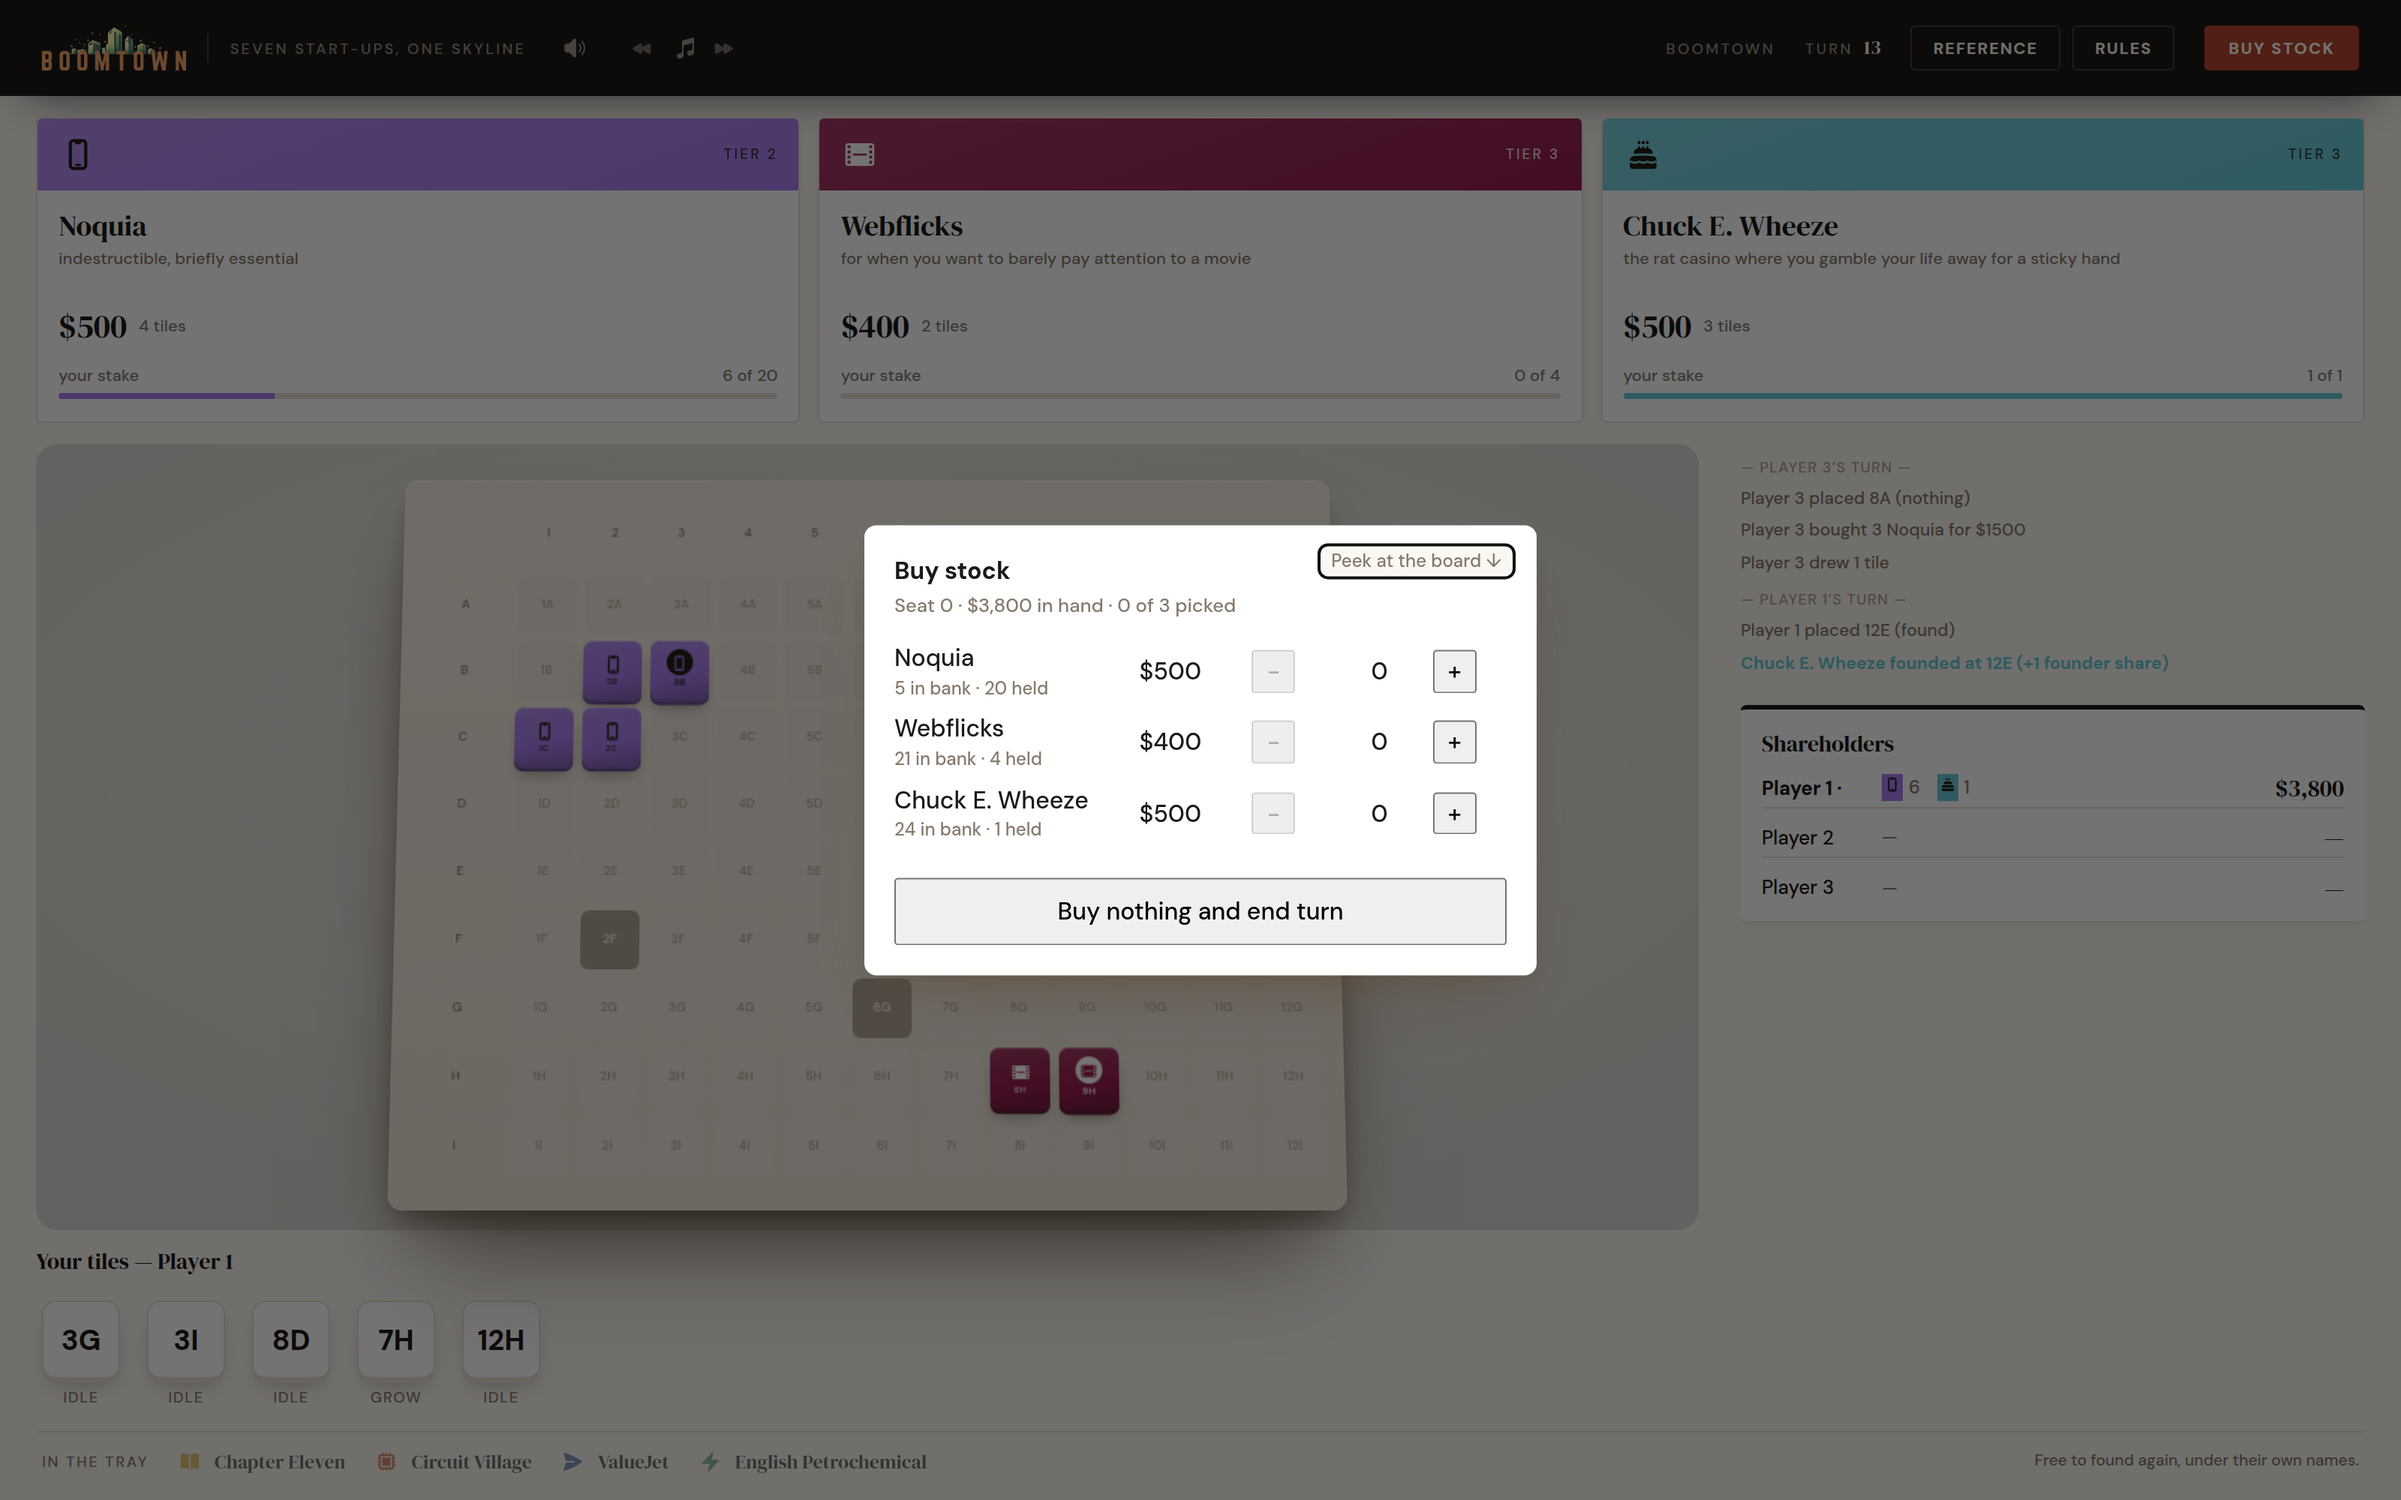
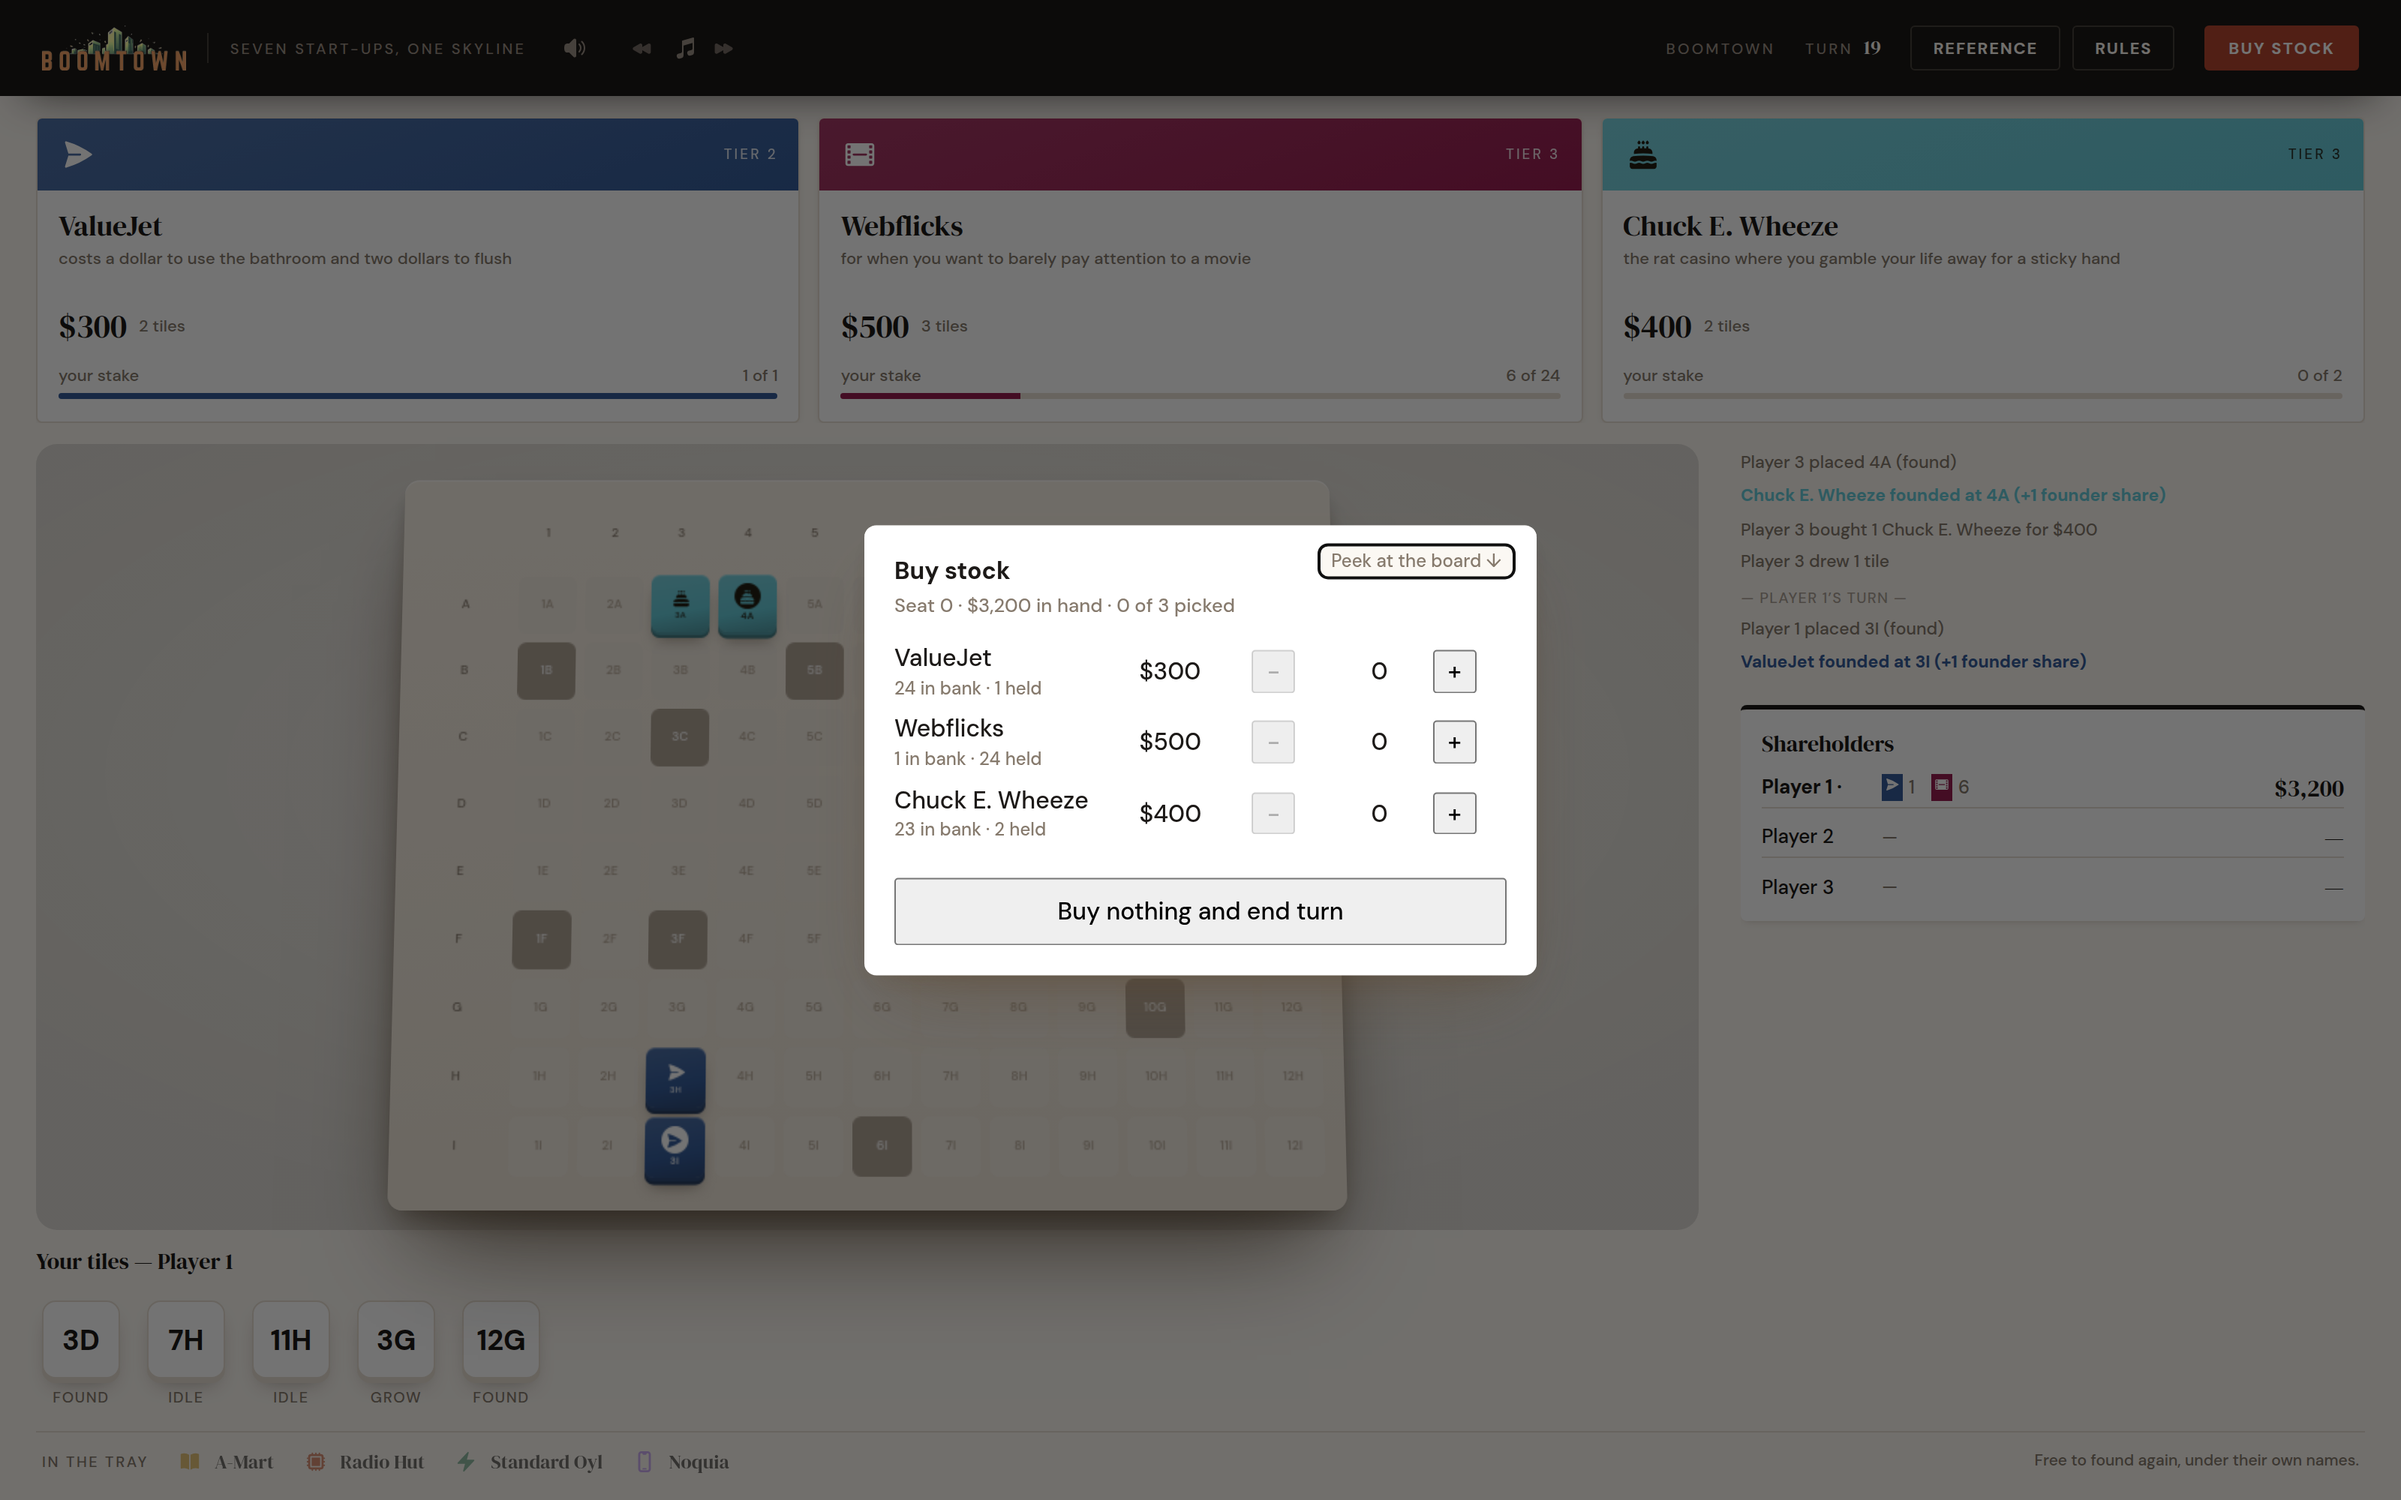
Retake the screenshots on the corrected naming
Every frame came from the code that named a twice-merged corporation after
the company it stopped being, so the set had to be shot again rather than
patched — the wrong name was on the story panel in half of them.

The new run has the fix on show: "Fried Electronics + Standardjet merge at
3A", "ValueJet + Discovery Zonked merge at 11I", and a final board trading as
Toyswedeobuckair after three mergers.

One frame is new. This run's bots placed a tile that joined two corporations
of exactly equal size, which hands the mergemaker a choice the earlier set
never happened to show, so the tie-break prompt is now the tenth shot and the
rest shift up one.

Two notes added to the README for whoever retakes these next: a corporation's
flavour line is a vertical marquee and is usually caught mid-scroll, and the
set pieces — a motion, a tie, a multi-way merger — only arrive when the bots
produce them, so the capture gates on the state it wants and re-runs.

Claude-Session: https://claude.ai/code/session_01M1dPaAZY1SXB1P2tAECK8d

diff --git a/docs/screenshots/README.md b/docs/screenshots/README.md
@@ -1,8 +1,8 @@
 # Screenshots
 
-Sixteen frames from one real game, in the order a table meets them — for press,
-the README, a store page, anywhere the game needs to be shown rather than
-described.
+Seventeen frames from one real game, in the order a table meets them — for
+press, the README, a store page, anywhere the game needs to be shown rather
+than described.
 
 | File | What it shows |
 |---|---|
@@ -14,23 +14,25 @@ described.
 | `06-a-corporation-is-founded.png` | The founding beat: headquarters, price, founder's share |
 | `07-buy-stock.png` | Buying up to three shares, with the bank's stock shown |
 | `08-the-table-mid-game.png` | The whole screen mid-game: cards, board, story, shareholders |
-| `09-merger-at-4a.png` | The merger sequence opening on the tile that caused it |
-| `10-the-merged-name.png` | The accreted display name of a survivor |
-| `11-disposing-of-dead-stock.png` | Hold, sell or trade two-for-one, with bonuses paid |
-| `12-end-of-turn.png` | End of turn: end turn, or move to liquidate |
-| `13-motion-to-liquidate.png` | The vote, with the register tallying shares live |
-| `14-the-motion-fails.png` | A failed motion — the backer plays on with open books |
-| `15-tallying-the-score.png` | Final scoring, counted up from last place |
-| `16-final-standings.png` | Game over: cash, stock and total per seat |
+| `09-merger-at-9g.png` | The merger sequence opening on the tile that caused it |
+| `10-choosing-the-survivor.png` | The mergemaker breaking a tie between equal corporations |
+| `11-the-merged-name.png` | The accreted display name of a survivor |
+| `12-disposing-of-dead-stock.png` | Hold, sell or trade two-for-one, with bonuses paid |
+| `13-end-of-turn.png` | End of turn: end turn, or move to liquidate |
+| `14-motion-to-liquidate.png` | The vote, with the register tallying shares live |
+| `15-the-motion-fails.png` | A failed motion — the backer plays on with open books |
+| `16-tallying-the-score.png` | Final scoring, counted up from last place |
+| `17-final-standings.png` | Game over: cash, stock and total per seat |
 
 ## How they were taken
 
 The renderer served to a browser (`cd apps/desktop && npm run web`) and driven
 with Playwright — an all-bot table for the set pieces that arrive on their own,
-a played seat for the prompts only a human sees. Boomtown preset, three seats,
+a played seat for the prompts only a human sees, and a two-human table for the
+hand-off card, which does not otherwise exist. Boomtown preset, three seats,
 viewport 1600 × 1000 at 2× (so 3200 × 2000 PNGs).
 
-Two things to know if you retake them:
+Four things to know if you retake them:
 
 - **Screenshot the viewport, not the full page.** `fullPage: true` extends past
   the viewport while a fixed overlay does not, so beats and modals come out
@@ -38,6 +40,12 @@ Two things to know if you retake them:
 - **Wait for the overlay to settle.** Beats fade and stage; a frame grabbed on
   the transition catches text mid-fade. Sample, wait ~1.5s, confirm the same
   overlay is still up, then shoot.
+- **A corporation's flavour line scrolls.** It is a vertical `Marquee`, so a
+  blended flavour long enough to overflow its two-line window is usually caught
+  mid-scroll. Take a later frame rather than assume the card is broken.
+- **Set pieces are not on demand.** A motion, a tie-break for the survivor and a
+  multi-corporation merger arrive when the bots produce them, so a run can end
+  without one. Gate the capture on the state you want and re-run.
 
-A published sheet of all sixteen, laid out in play order:
+A published sheet of all seventeen, laid out in play order:
 https://claude.ai/code/artifact/f3488e6b-8bd6-41d1-9a50-7693a49d6731
